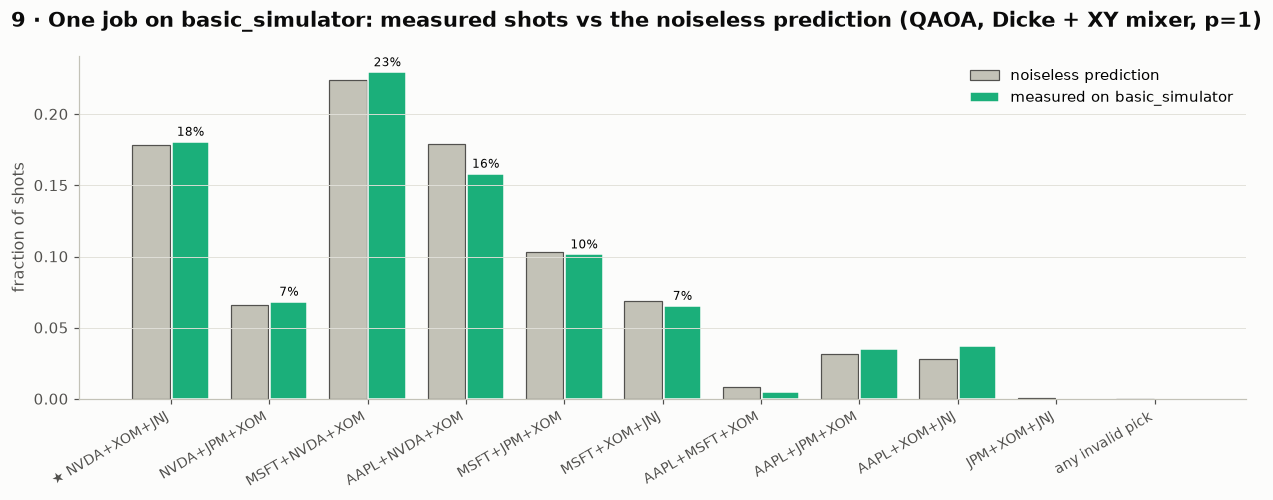
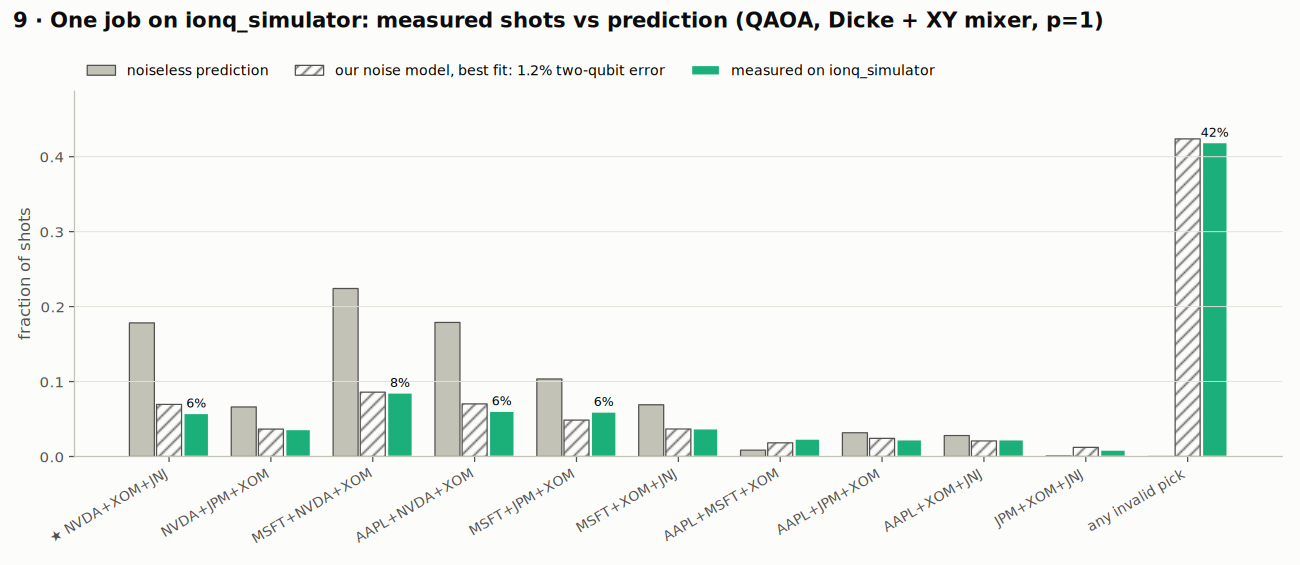
Document the IonQ Forte 1 run: forte-1 noise, post-selection, 1.2% fit
Replace the backend figure with the one from the Qollab run on IonQ's
forte-1 noise model and report its numbers in the README.

diff --git a/README.md b/README.md
@@ -14,7 +14,7 @@ legible) **and Quantum Impact** (a real finance problem against strong classical
 
 | | |
 |---|---|
-| **Run it** | Open the project on Qollab, pick a backend in **Select QPU**, press **Run**. About 40 s in the browser (measured on Qollab with an IonQ job), 25 s on a laptop. |
+| **Run it** | Open the project on Qollab, pick a backend in **Select QPU**, press **Run**. 37–39 s in the browser including the IonQ job (measured on Qollab), 25 s on a laptop. |
 | **What you get** | 9 annotated figures, each with a text description and numeric tables; one job on the selected backend, compared against the simulator's prediction |
 | **Honest result** | At this size classical brute force wins outright. The project shows *how* QAOA works and *which design choices* make it work, not a speedup claim. |
 
@@ -59,17 +59,31 @@ Sharpe 2.05, against +37.1%/yr (Sharpe 1.62) for continuous Markowitz and +34.9%
 (Sharpe 1.89) for equal weights across all six. One two-year window is anecdote, not evidence
 of skill. The run reports it as a sanity check on the estimates.
 
-**4. One job on IonQ Forte 1 shows real-device-style noise, and the free mitigation
-working on real shots.** The optimized circuit (Dicke + XY, p=1) runs as one job on the
-selected backend. Qollab's IonQ Forte 1 simulator models the device's noise. On it, only
-**59%** of 1,024 shots were valid portfolios, and P(best) fell from 17.8% to **6.7%**.
-The ideal circuit can never break the budget: compiled to IonQ's gate set (84 two-qubit
-gates) it keeps P(valid) = 1.000000 in a noiseless simulation, so all of those 41% are
-hardware errors. Discarding them lifts P(best) back to about **11%**, more than twice what
-random guessing gives (5%). The run also fits Step 5's depolarizing model to the measured
-shots, which tests that simple model against IonQ's own. On a noiseless backend the
-measured distribution matches the prediction to within shot noise (total variation about
-0.03–0.06 at 1,024 shots), and every shot is valid.
+**4. One job on IonQ Forte 1: real device noise, mitigation on real shots, and a test of our
+noise model.** The optimized circuit (Dicke + XY, p=1) runs as one job on the selected
+backend. On Qollab, the IonQ Forte 1 simulator runs IonQ's `forte-1` noise model. From the run
+output on Qollab:
+
+| 1,024 shots on IonQ Forte 1 (noise model `forte-1`) | noiseless prediction | measured | measured, invalid shots discarded |
+|---|---|---|---|
+| P(valid portfolio) | 100% | **58.1%** | 100% |
+| P(best portfolio) | 17.8% | 5.8% | **9.9%** (random valid guess: 5.0%) |
+| approximation ratio | 0.777 | 0.372 | **0.641** |
+
+- **Every invalid shot is a hardware error.** Compiled to IonQ's gate set (84 two-qubit
+  gates), the circuit keeps P(valid) = 1.000000 in a noiseless simulation. So the 42% of
+  shots that broke the budget can only come from noise.
+- **The free mitigation works on real shots.** Discarding those shots lifts P(best) from
+  5.8% to 9.9%, about twice random guessing.
+- **Step 5's simple noise model holds up.** Fitted to IonQ's shots, it gives an effective
+  two-qubit depolarizing error of **about 1.2%**. At that rate its predicted distribution
+  is **0.084** from the measured one in total variation, against 0.510 for the noiseless
+  prediction. An earlier run gave the same picture (59% valid, P(best) 6.7%).
+
+![Grouped bars for the 10 best portfolios plus all invalid picks: noiseless prediction, our noise model fitted at 1.2% two-qubit error, and the 1,024 shots measured on IonQ Forte 1. The fitted model tracks the measured bars closely, including 42% invalid picks that the noiseless prediction says should never happen](docs/figures/9_backend_check.png)
+
+On a noiseless backend, every shot is valid and the measured distribution matches the
+prediction to within shot noise (total variation about 0.03–0.06 at 1,024 shots).
 
 ## The figures
 
